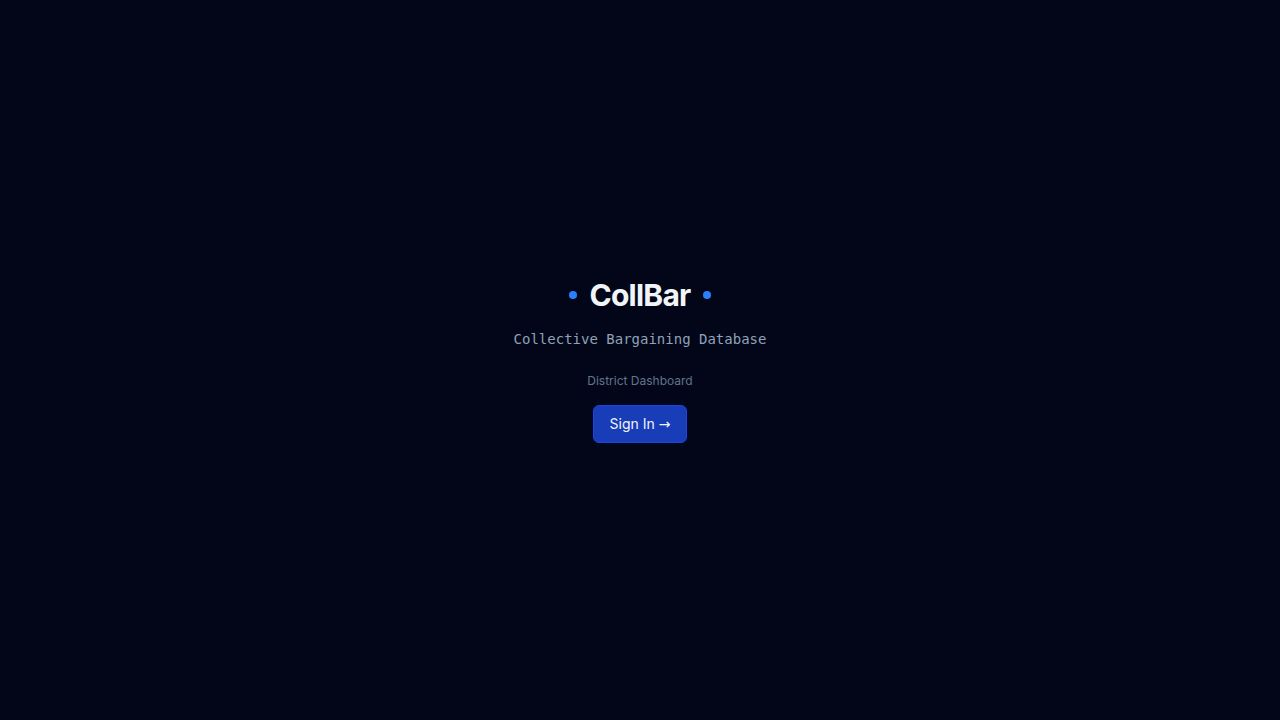
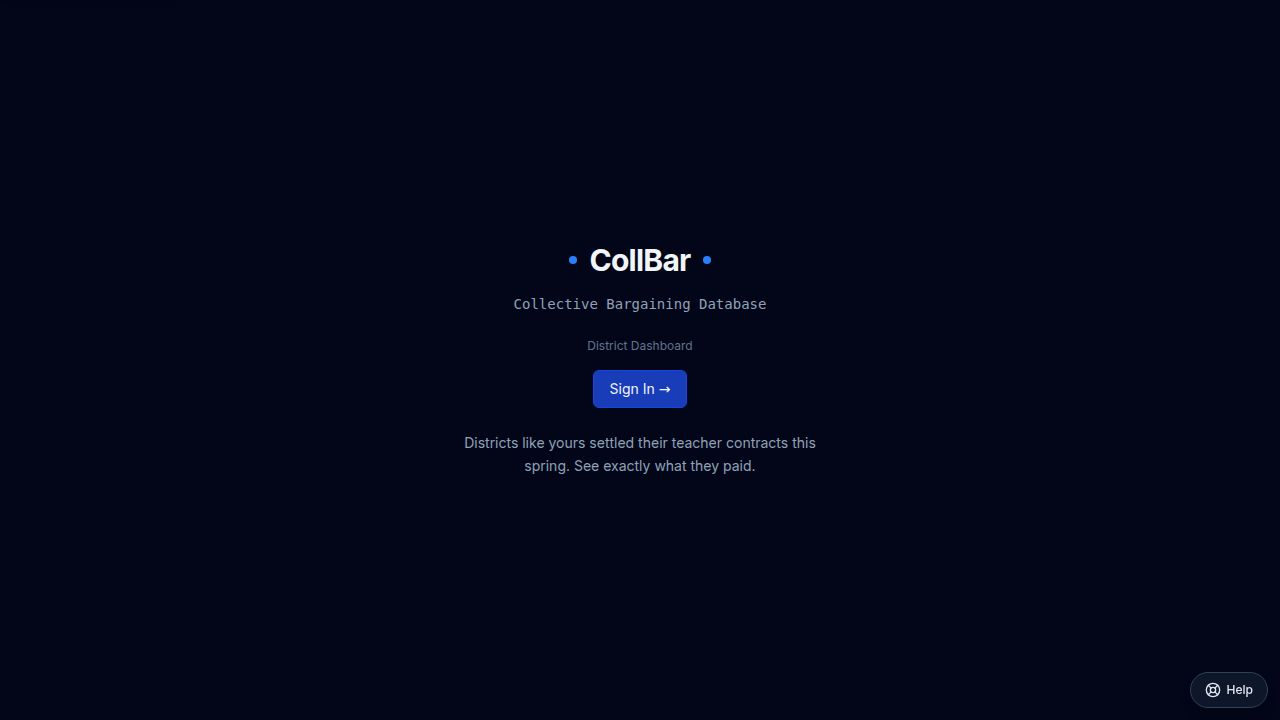
Add value-prop & contact copy to login and home screens (Task #148)
Frontend-only copy change. No auth, routing, or sign-in logic touched.

- login.tsx: replaced the stale "Contact [email redacted] for access."
  line beneath the Sign in button with (1) a value-prop paragraph
  ("CollBar gives Illinois CSBOs, treasurers, and superintendents eleven
  years of teacher settlement data and full multi-year CBA cost modeling
  — so you bargain from precedent, not from memory.") and (2) a new
  contact line "Contact: E: [email redacted]  P: [phone redacted]".
  Styled muted/centered (text-xs, slate-400/500) within the existing
  max-w-sm card. No [email redacted] references remain anywhere in src/.
- App.tsx Home (/): added tagline "Districts like yours settled their
  teacher contracts this spring. See exactly what they paid." below the
  "Sign In →" button — centered, slate-400, max-w-sm for clean wrapping.

Deviation: contact info rendered as plain text (not mailto links) to
respect the task's "no new links" constraint and match the original
plain-text styling. Used non-breaking spaces to visually separate the
E: and P: fields on the contact line.

Verified: pnpm typecheck + production build pass; both screens
screenshotted and render correctly in the dark theme.

Changed region(s): [[0.375, 0.4583, 0.625, 0.6722], [0.4062, 0.3361, 0.5938, 0.4278], [0.9375, 0.9472, 1.0, 0.9778]]

diff --git a/artifacts/collbar-web/src/pages/login.tsx b/artifacts/collbar-web/src/pages/login.tsx
@@ -108,11 +108,16 @@ export default function LoginPage() {
           </button>
         </form>
 
-        <p className="text-center text-xs text-slate-600">
-          Contact{" "}
-          <span className="text-slate-500">[email redacted]</span>{" "}
-          for access.
-        </p>
+        <div className="space-y-3 text-center">
+          <p className="text-xs leading-relaxed text-slate-400">
+            CollBar gives Illinois CSBOs, treasurers, and superintendents eleven
+            years of teacher settlement data and full multi-year CBA cost
+            modeling — so you bargain from precedent, not from memory.
+          </p>
+          <p className="text-xs text-slate-500">
+            Contact: E: [email redacted]&nbsp;&nbsp;P: [phone redacted]
+          </p>
+        </div>
       </div>
     </main>
   );

diff --git a/artifacts/collbar-web/src/App.tsx b/artifacts/collbar-web/src/App.tsx
@@ -50,6 +50,10 @@ function Home() {
             Sign In →
           </a>
         </div>
+        <p className="mx-auto mt-6 max-w-sm text-sm leading-relaxed text-slate-400">
+          Districts like yours settled their teacher contracts this spring. See
+          exactly what they paid.
+        </p>
       </div>
     </main>
   );